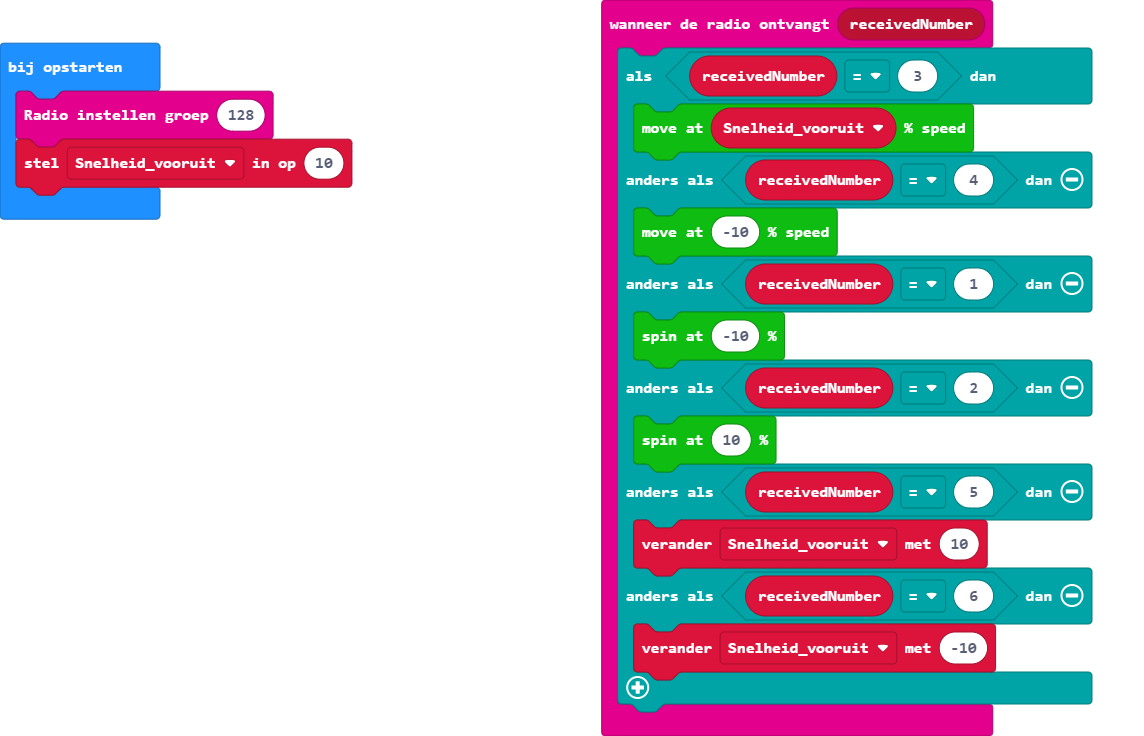
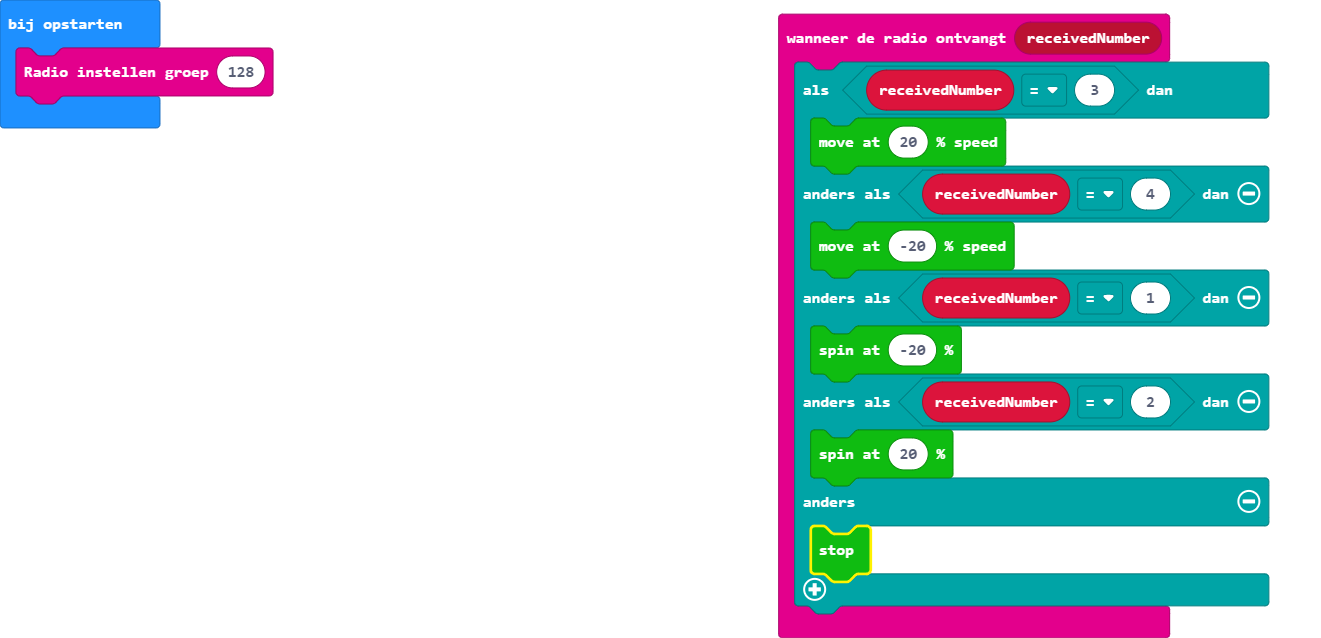
main.blocks, main.ts bijwerken

diff --git a/main.ts b/main.ts
@@ -1,18 +1,14 @@
 radio.onReceivedNumber(function (receivedNumber) {
     if (receivedNumber == 3) {
-        RobotCar_Keyestudio.Motors.move(Snelheid_vooruit)
+        RobotCar_Keyestudio.Motors.move(20)
     } else if (receivedNumber == 4) {
-        RobotCar_Keyestudio.Motors.move(-10)
+        RobotCar_Keyestudio.Motors.move(-20)
     } else if (receivedNumber == 1) {
-        RobotCar_Keyestudio.Motors.spin(-10)
+        RobotCar_Keyestudio.Motors.spin(-20)
     } else if (receivedNumber == 2) {
-        RobotCar_Keyestudio.Motors.spin(10)
-    } else if (receivedNumber == 5) {
-        Snelheid_vooruit += 10
-    } else if (receivedNumber == 6) {
-        Snelheid_vooruit += -10
+        RobotCar_Keyestudio.Motors.spin(20)
+    } else {
+        RobotCar_Keyestudio.Motors.stop()
     }
 })
-let Snelheid_vooruit = 0
 radio.setGroup(128)
-Snelheid_vooruit = 10
